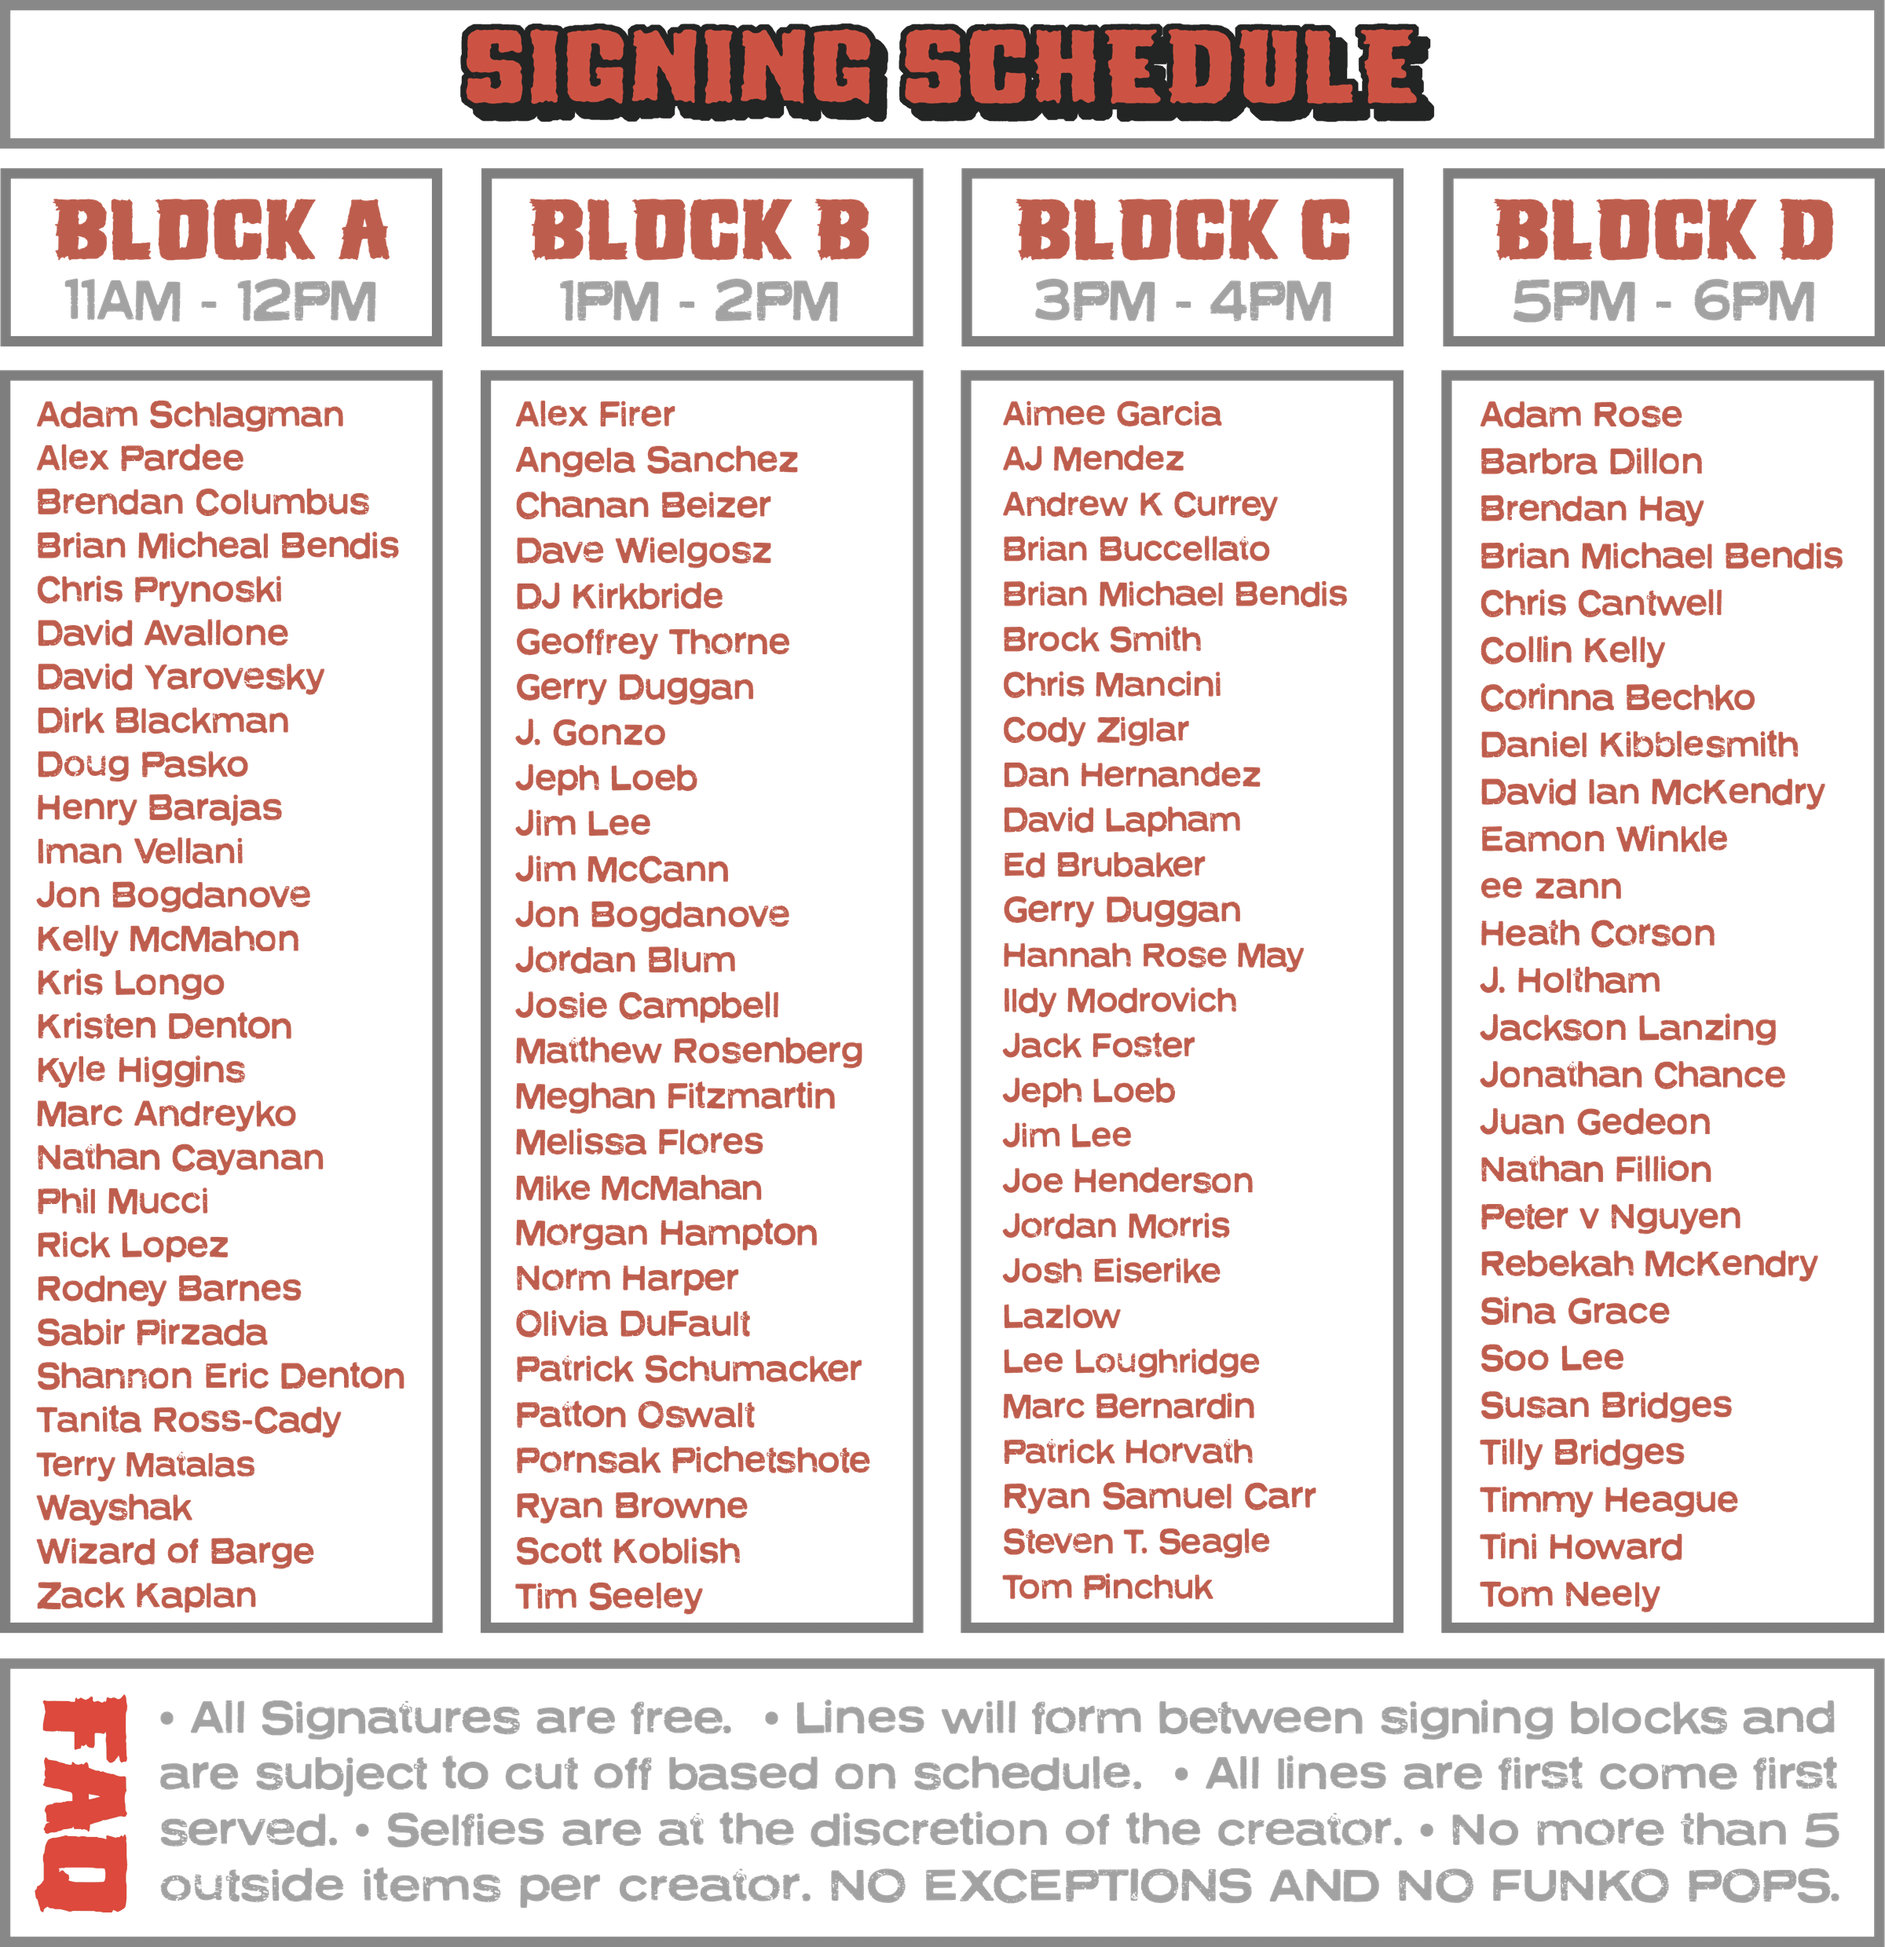
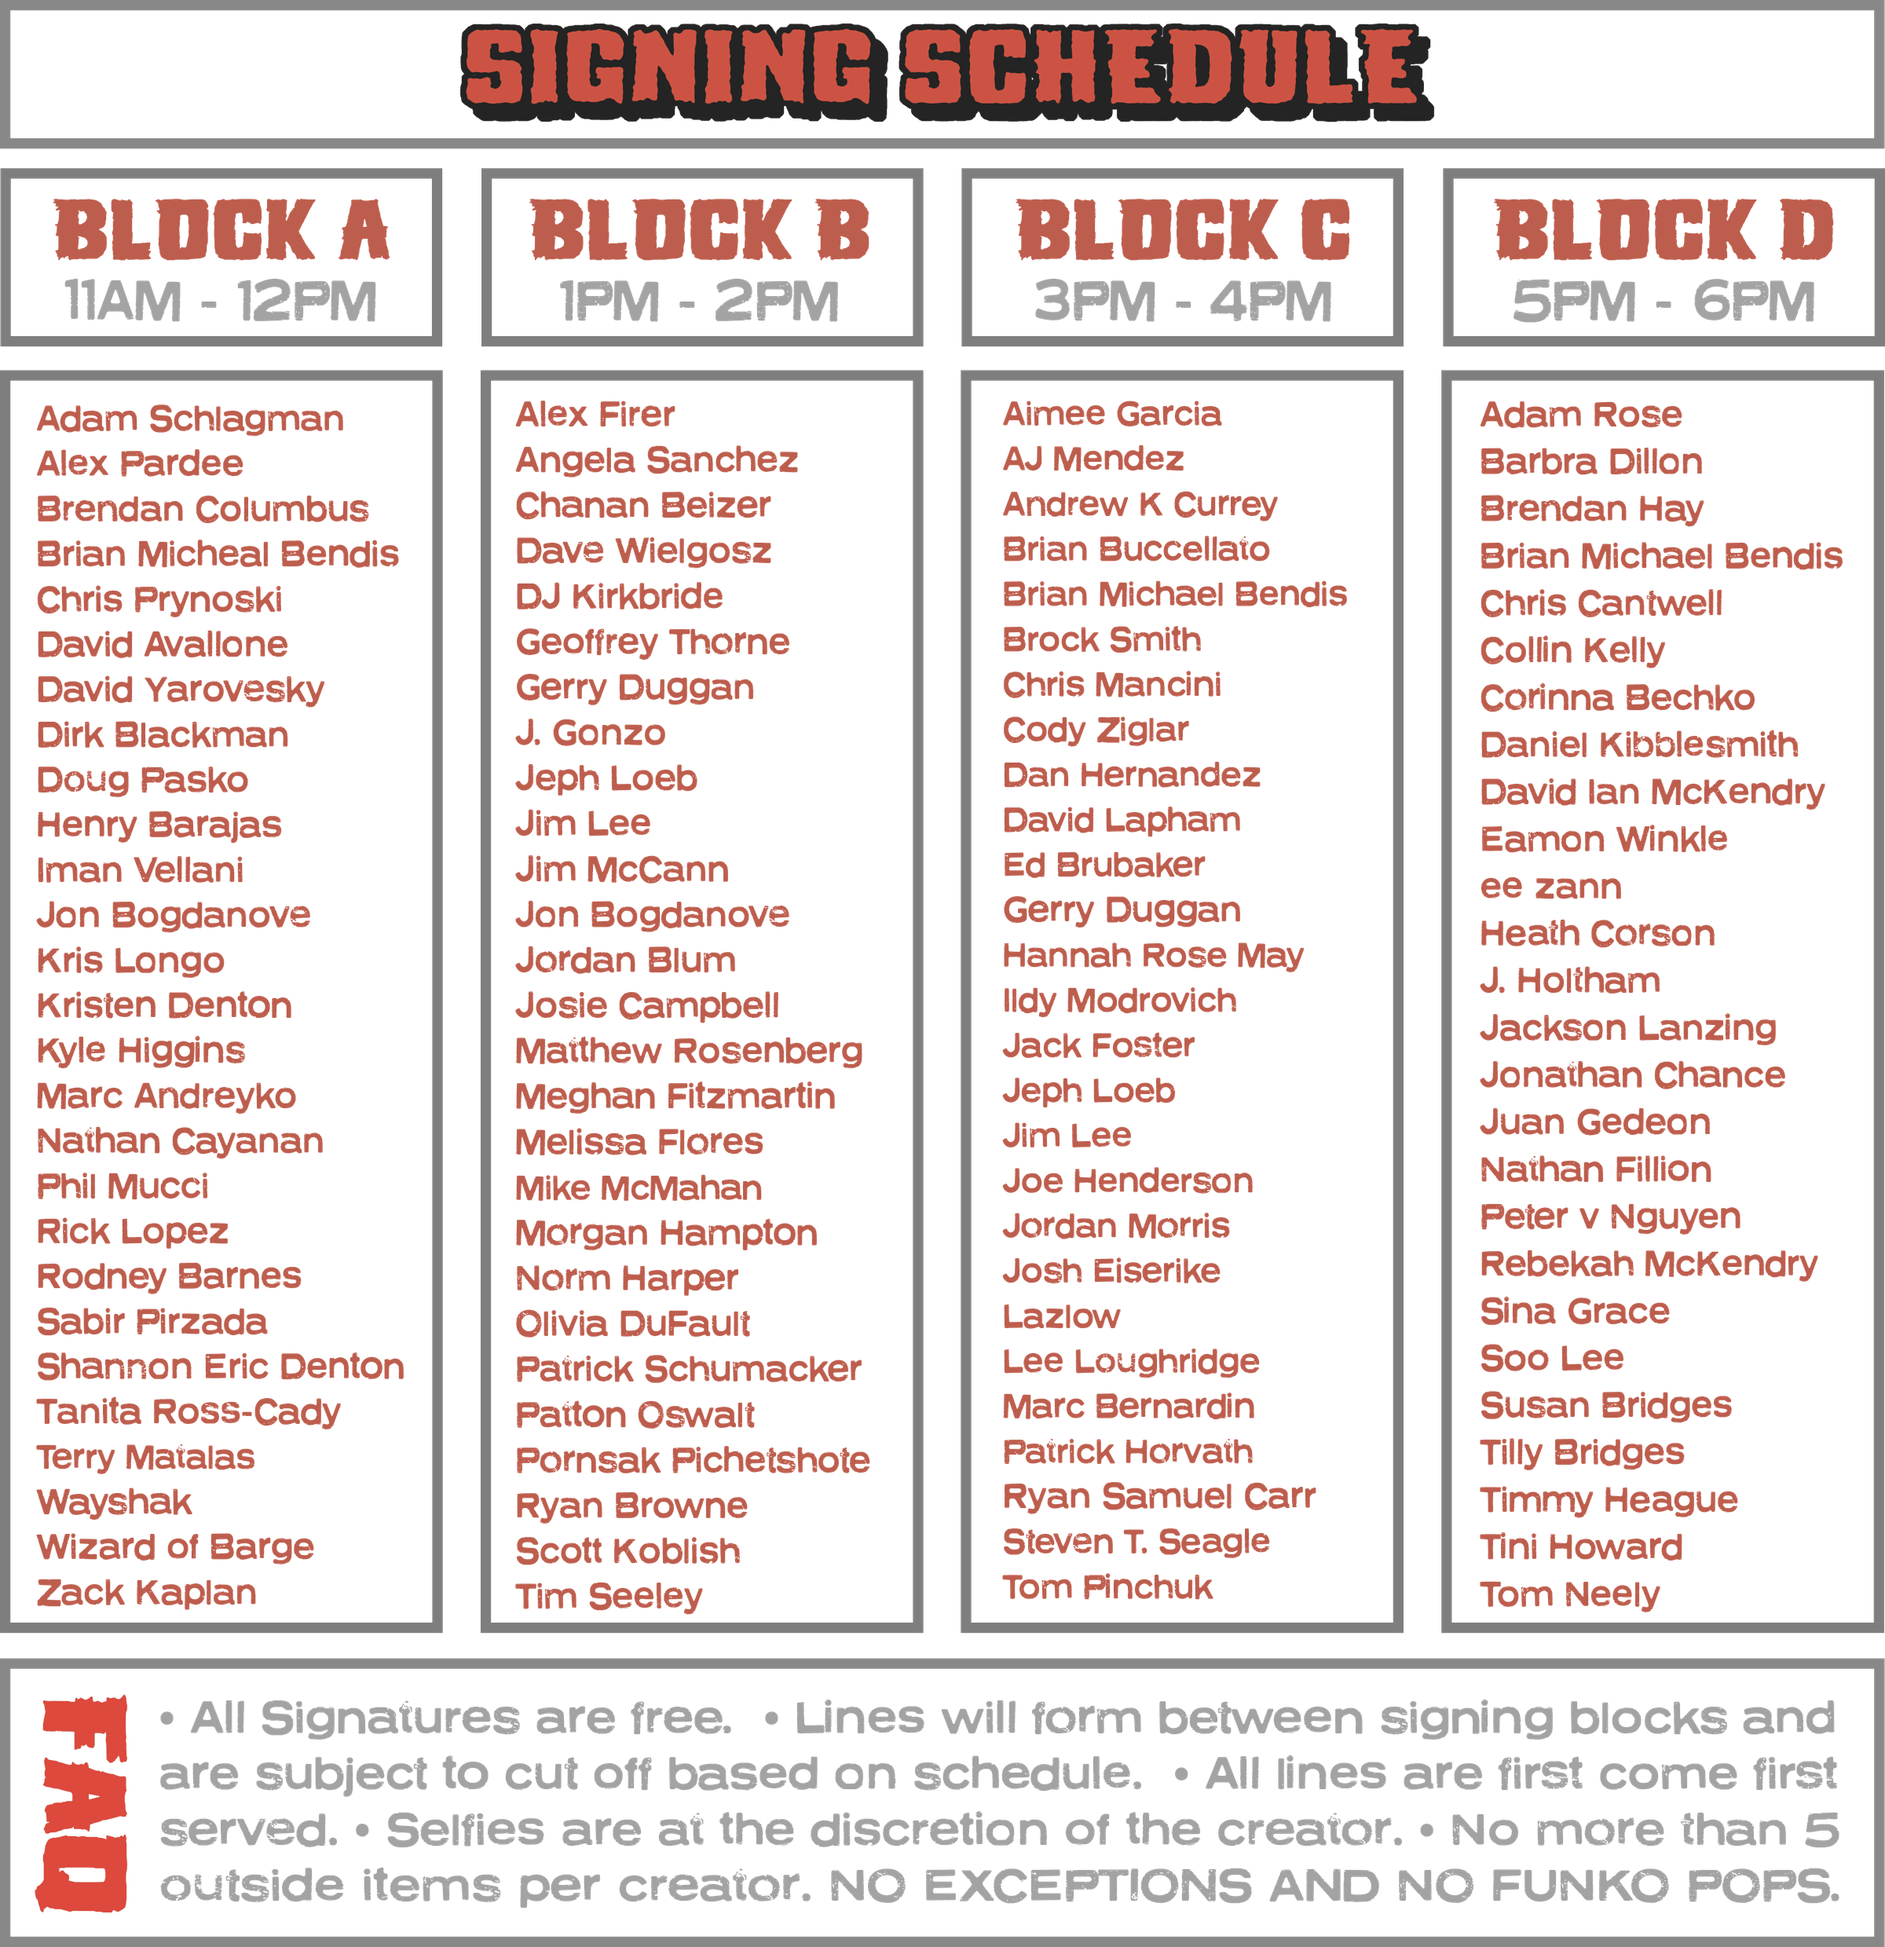
Update 2026 signing schedule, add live schedule under ROTV Live

Changed region(s): [[0.0, 0.1864, 0.2188, 0.8386]]

diff --git a/app/2026/page.tsx b/app/2026/page.tsx
@@ -1,6 +1,7 @@
 import Image from "next/image"
 import ccbpHeader from "@/images/2026/CCBP26_header.png"
 import ccbpSchedule from "@/images/2026/CCBP26_SigningSchedule.png"
+import ccbpLiveSchedule from "@/images/2026/CCBP26_LiveSchedule.png"
 import revengeOfLogo from "@/images/2026/RevengeOf_LogoAddress.png"
 import ROTVLive2026 from "@/components/ROTVLive2026"
 
@@ -24,8 +25,14 @@ export default function Home() {
             priority
           />
         </div>
-        <div className="w-full">
+        <div className="w-full flex flex-col gap-2 lg:gap-5">
           <ROTVLive2026 />
+          <Image
+            src={ccbpLiveSchedule}
+            alt="Comic Creators Block Party 2026 Live Interview Schedule"
+            style={{ width: "100%", height: "auto" }}
+            sizes="(max-width: 1200px) 100vw, 1200px"
+          />
         </div>
         <a
           href="https://www.revengeof.com"
